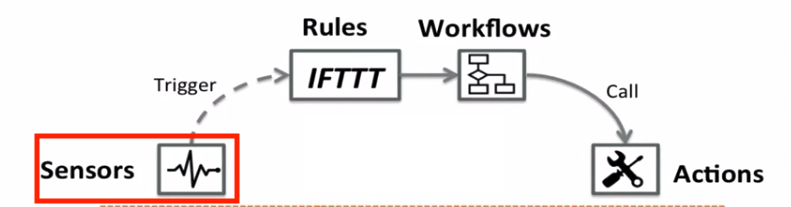
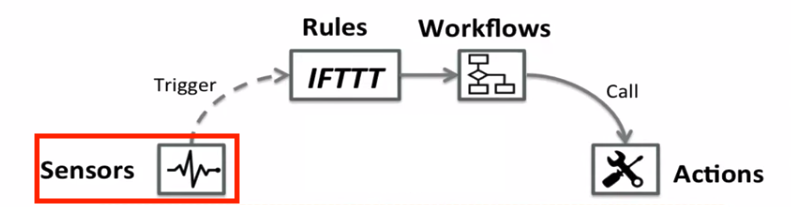
Add Rules lessons

Changed region(s): [[0.1214, 0.9855, 0.9406, 1.0]]

diff --git a/lessons/lesson-15/stage5/guide.md b/lessons/lesson-15/stage5/guide.md
@@ -6,10 +6,104 @@
 
 And now, all of the concepts we've learned thus far come together. In this lesson we'll explore how *[Rules](https://docs.stackstorm.com/rules.html)* allow us to link the events that are reported to StackStorm via Sensors and Triggers, to the actions we want to take in response to those events in Actions and Workflows. Rules are the missing link in this chain.
 
-<div style="text-align:center;"><img src="https://raw.githubusercontent.com/nre-learning/antidote/st2-lesson/lessons/lesson-15/rules.png" width="100"></div>
+<div style="text-align:center;"><img src="https://raw.githubusercontent.com/nre-learning/antidote/st2-lesson/lessons/lesson-15/rules.png"></div>
 
-TBD
+With Rules, we are declaring to StackStorm what events we care about (in the form of Triggers), and what action we want to take in response to seeing those events. In this lab, we'll create a Rule that responds to the Triggers we saw in the previous lab (`napalm.InterfaceDown`) and replaces the interface configuration on the affected device to turn the interface back up again.
+
+Our finished rule file can be seen here - continue for a walkthrough of each of the components of this file:
+
+```
+cat /antidote/lessons/lesson-15/stage5/replace_interface_config.yaml
+```
+<button type="button" class="btn btn-primary btn-sm" onclick="runSnippetInTab('st2', 0)">Run this snippet</button>
+
+The first part of a rule file is very similar to most other forms of YAML-based metadata in StackStorm. We have a few fields that describe the rule itself, such as its name, the pack it's in, etc:
+
+```yaml
+name: "replace_interface_config"
+pack: "napalm"
+description: "Watches for interface down events from NAPALM, and sends a configuration snippet to the device to turn the interface back up"
+enabled: true
 ```
 
+Next, all Rules need to reference a Trigger. As mentioned, we want to consume the `napalm.InterfaceDown` triggers we saw in the previous lab on Sensors and Triggers:
+
+```yaml
+trigger:
+    type: "napalm.InterfaceDown"
 ```
-<button type="button" class="btn btn-primary btn-sm" onclick="runSnippetInTab('linux1', 0)">Run this snippet</button>
+
+StackStorm's rules engine will monitor for all incoming trigger instances, and when the specific trigger that's referenced in the Rule shows up, it will take care of activating the next steps.
+
+If you recall from the previous lab, all triggers come with certain properties. Our `napalm.InterfaceDown` trigger contains properties to indicate the `interface` that went down, and the `device` where that interface was located. We can use the optional `criteria` field to further filter what triggers should be handled by this rule. Maybe we want to take different actions based on which interface actually went down. In any case, for the purposes of this lesson, we'll accept all triggers without criteria or filtering, so providing an empty dictionary here is appropriate:
+
+```yaml
+criteria: {}
+```
+
+Finally, the `action` section tells the Rule what to do when an incoming trigger instance matches the defined trigger type, as well as any defined criteria. This can be a discrete Action, or a Workflow. In our case, we'll just call the `napalm.load_config` action directly to upload our new config to the device.
+
+```yaml
+action:
+    ref: "napalm.loadconfig"
+    parameters:
+        hostname: "{{ trigger.device }}"
+        config_file: "/antidote/lessons/lesson-15/stage5/interface-up-config.xml"
+```
+
+Note that we're making use of the `device` field from the trigger payload in a Jinja snippet, in order to dynamically populate `napalm.loadconfig`'s `hostname` parameter. The [StackStorm docs](https://docs.stackstorm.com/reference/jinja.html) cover the usage of Jinja in Stackstorm in greater detail.
+
+Normally, rules would be located in the `rules/` directory of a pack, but we can also create a rule directly from the command line using our YAML file.
+
+```
+st2 rule create replace_interface_config.yaml
+```
+<button type="button" class="btn btn-primary btn-sm" onclick="runSnippetInTab('st2', 5)">Run this snippet</button>
+
+The tabular output shows us that StackStorm has ingested our new Rule definition and is ready to watch for new trigger-instances. Now that the rule is in place, any new instances of the trigger `napalm.InterfaceDown` will be handled by this rule. In the name of variety, let's trigger an event on `vqfx2`:
+
+```
+configure
+set interfaces em4 disable
+commit
+exit
+```
+<button type="button" class="btn btn-primary btn-sm" onclick="runSnippetInTab('vqfx2', 6)">Run this snippet</button>
+
+As with before, check the `trigger-instance` list until our new instance comes in. Again, this sensor works on a polling basis, so it may take a few seconds. Also note that if you went through the previous lab, our old trigger-instances will still be there, so pay attention to the timestamps.
+
+```
+st2 trigger-instance list --trigger=napalm.InterfaceDown
+```
+<button type="button" class="btn btn-primary btn-sm" onclick="runSnippetInTab('st2', 7)">Run this snippet</button>
+
+Similar to the relationship between `actions` and `executions`, as well as between `triggers` and `trigger-instances`, a specific instance of a Rule being matched is known as a `rule-enforcement`. Once we see our new `trigger-instance` appear in the previous command, we can list the `rule-enforcements` to make sure this trigger instance was picked up by our new rule:
+
+```
+st2 rule-enforcement list
+```
+<button type="button" class="btn btn-primary btn-sm" onclick="runSnippetInTab('st2', 8)">Run this snippet</button>
+
+This is a very handy tool for seeing our new Rule in action. If you look at the output, you'll notice that the field `trigger_instance_id` shows the ID of the trigger-instance that was handled by this rule, as well as the  `execution_id` of the action execution that was created.
+
+Remember how we retrieve execution details? `st2 execution get <execution-id>` will get it for us. The below snippet uses a bit of bash-fu to automatically retrieve this:
+
+```
+st2 execution get $(st2 execution list --action=napalm.loadconfig | grep napalm | tail -1 | awk '{ print $2}')
+```
+<button type="button" class="btn btn-primary btn-sm" onclick="runSnippetInTab('st2', 9)">Run this snippet</button>
+
+Looks like our `loadconfig` action executed successfully - we can verify this at the CLI of `vqfx2`:
+
+```
+show interfaces em4
+```
+<button type="button" class="btn btn-primary btn-sm" onclick="runSnippetInTab('vqfx2', 10)">Run this snippet</button>
+
+That's it for now! To recap:
+
+- Actions and Workflows can be used for performing useful tasks around our network
+- Sensors and Triggers help us integrate with external systems, like network devices but also monitoring platforms, to understand when certain events have taken place
+- Rules allow us to describe the "if this then that" logic that ties Triggers with Actions and Workflows, so we don't have to execute scripts ourselves anymore - we can commit these decisions as code into Rules.
+
+This was just a taste. In future lessons, we'll explore specific use cases and custom solutions on top of StackStorm.

diff --git a/lessons/lesson-15/stage4/guide.md b/lessons/lesson-15/stage4/guide.md
@@ -16,7 +16,7 @@ In order for StackStorm to know when a certain "event" has taken place, it needs
 
 StackStorm uses something called `sensors` to do this. These are little bits of Python code that run as separate processes within StackStorm.
 
-<div style="text-align:center;"><img src="https://raw.githubusercontent.com/nre-learning/antidote/st2-lesson/lessons/lesson-15/sensors.png" width="100"></div>
+<div style="text-align:center;"><img src="https://raw.githubusercontent.com/nre-learning/antidote/st2-lesson/lessons/lesson-15/sensors.png"></div>
 
 As with everything else, Sensors are distributed within Packs. We can run the following command to see the list of sensors in the `napalm` pack:
 
@@ -102,7 +102,7 @@ Once we see a trigger-instance show up in the list, we can use the command `st2 
 Or if you're feeling lucky, you could use the below command with some bash-fu to get it for you :)
 
 ```
-st2 trigger-instance get $(st2 trigger-instance list --trigger=napalm.InterfaceDown | grep napalm | head -1 | awk '{ print $2}')
+st2 trigger-instance get $(st2 trigger-instance list --trigger=napalm.InterfaceDown | grep napalm | tail -1 | awk '{ print $2}')
 ```
 <button type="button" class="btn btn-primary btn-sm" onclick="runSnippetInTab('st2', 9)">Run this snippet</button>
 

diff --git a/lessons/lesson-15/stage2/guide.md b/lessons/lesson-15/stage2/guide.md
@@ -14,7 +14,7 @@ Though it's important to understand that StackStorm is all about event-driven au
 
 There are many others - and the list is growing all the time in the StackStorm [Exchange](https://exchange.stackstorm.org/). In short, Actions can be thought of simply as neatly contained bits of code to perform a task. They accept input, do work, and usually provide some output. They're the very last piece in the chain we'll be building to create an end-to-end event-driven automation solution in this lesson.
 
-<div style="text-align:center;"><img src="https://raw.githubusercontent.com/nre-learning/antidote/st2-lesson/lessons/lesson-15/actions.png" width="100"></div>
+<div style="text-align:center;"><img src="https://raw.githubusercontent.com/nre-learning/antidote/st2-lesson/lessons/lesson-15/actions.png"></div>
 
 Many of the `st2` subcommands we saw in the previous lab use verbs like `get`, `create`, `delete`, `list` for their corresponding resources.
 For instance, to list the available actions that are currently present on our system, we can run:

diff --git a/lessons/lesson-15/stage3/guide.md b/lessons/lesson-15/stage3/guide.md
@@ -8,7 +8,7 @@ Just like real "tasks" performed manually, or via another tool, StackStorm Actio
 
 In StackStorm, we call these complex logical structures ["Workflows"](https://docs.stackstorm.com/workflows.html).
 
-<div style="text-align:center;"><img src="https://raw.githubusercontent.com/nre-learning/antidote/st2-lesson/lessons/lesson-15/workflows.png" width="100"></div>
+<div style="text-align:center;"><img src="https://raw.githubusercontent.com/nre-learning/antidote/st2-lesson/lessons/lesson-15/workflows.png"></div>
 
 There are a few options for accomplishing this in StackStorm:
 
